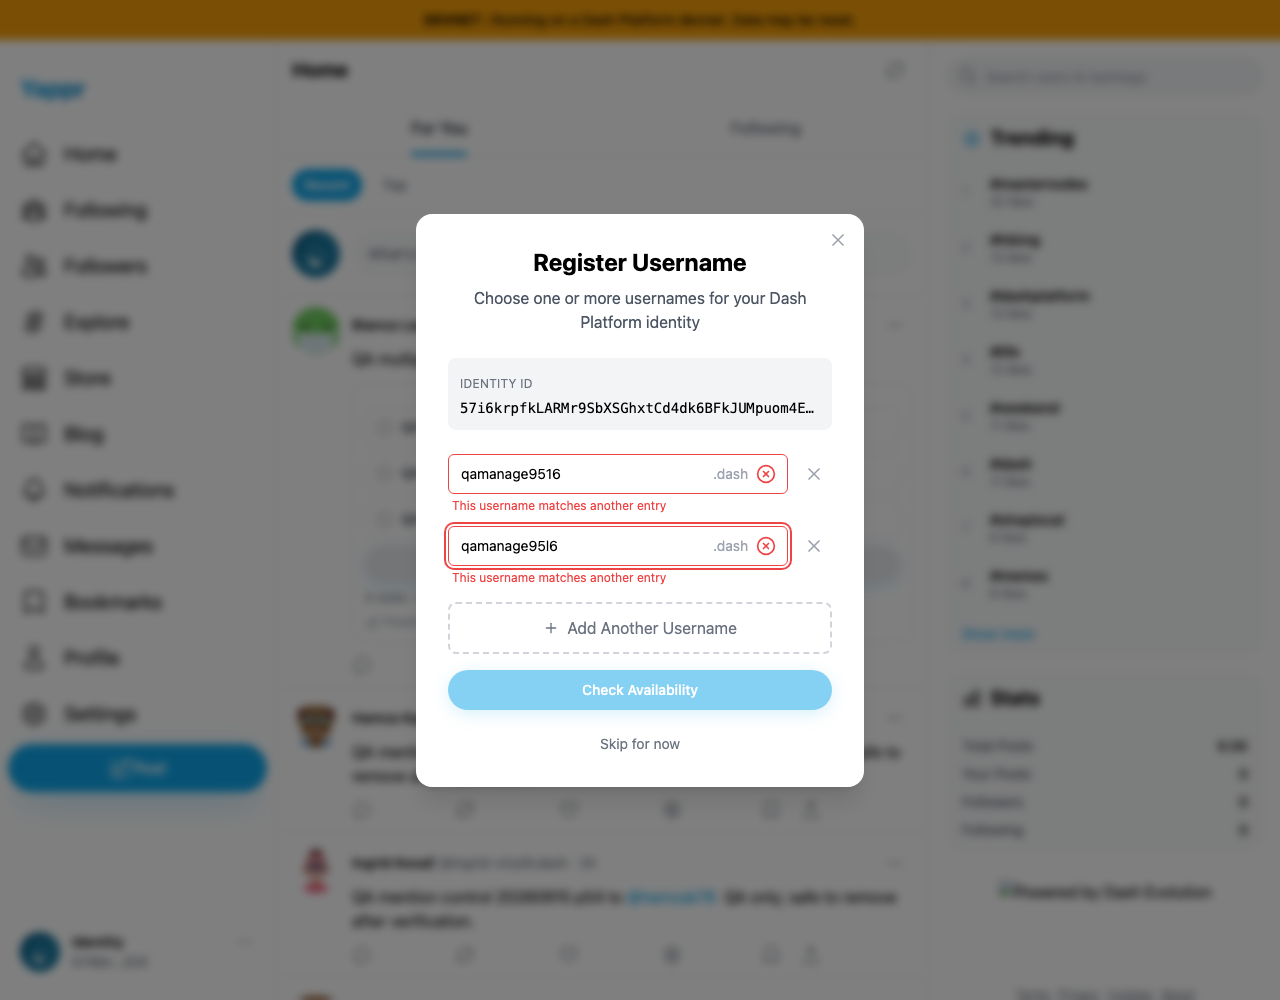
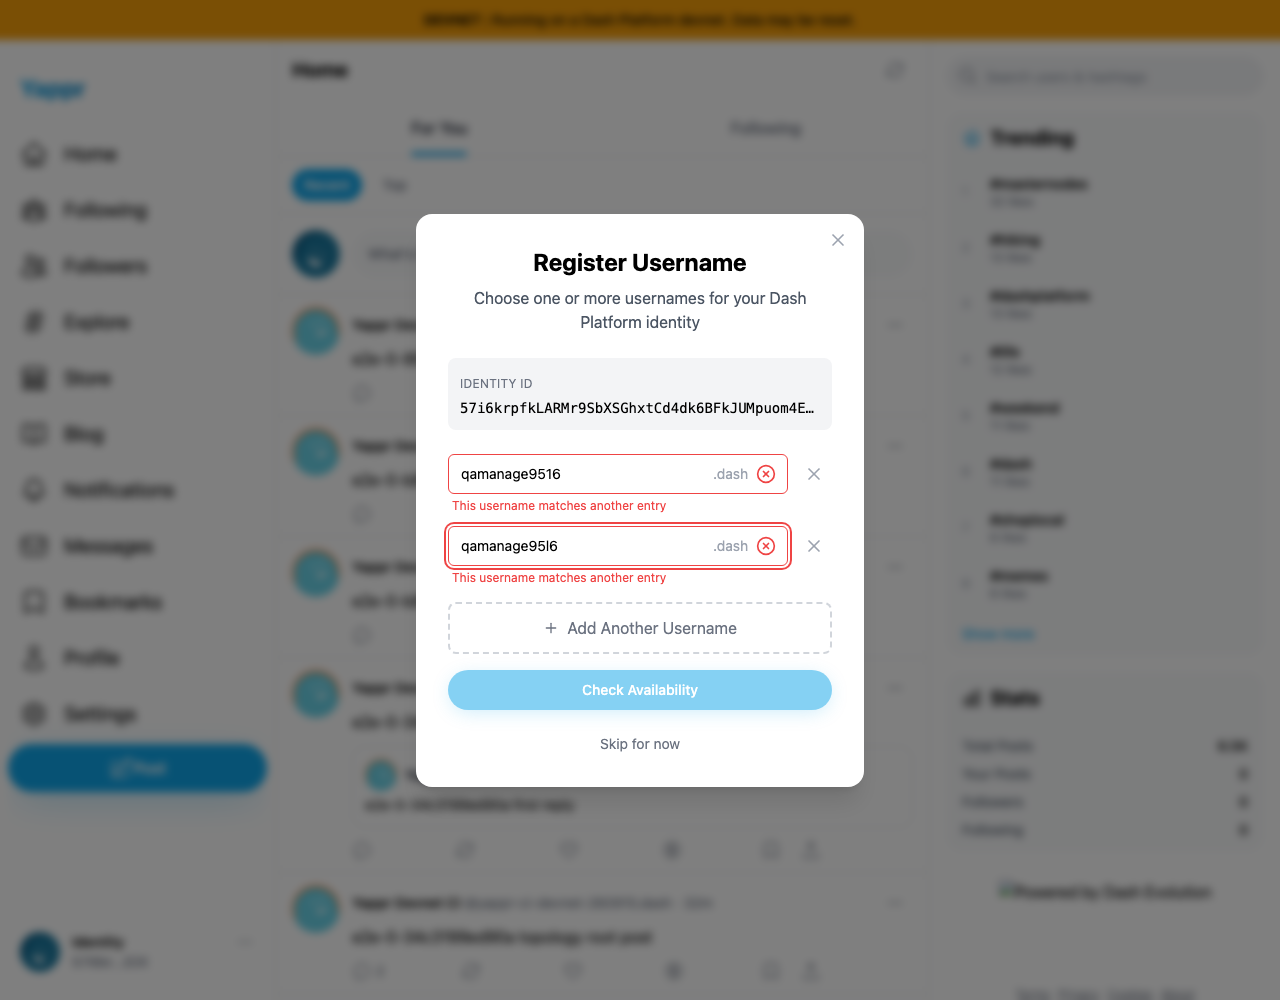
docs: refresh PR459 evidence against CI parent

diff --git a/yappr/pr-dpns-duplicate-usernames/README.md b/yappr/pr-dpns-duplicate-usernames/README.md
@@ -1,31 +1,26 @@
-# Duplicate DPNS usernames
+# Duplicate DPNS usernames — PR459
 
-Entering the same name twice, or names that share a DPNS canonical label, offered both as available registrations. The fix marks every duplicate row, disables availability until resolved, and immediately clears the warning when a row is changed or removed.
+Entering identical names or DPNS-equivalent spellings offered two registrations. The fix marks every matching row and blocks availability until the duplicate is edited or removed.
 
-Captured from separate exact-revision local devnet builds using the repository's unchanged Node static adapter and live devnet reads. Baseline `eb895be71a7207c73fb9329ac9d9bb7b398f53da`. Chromium, 1280 × 1000, matching unnamed identity and actual private-key login; no storage injection. No username registration or vote was sent. Screenshots are unmodified browser captures, reviewed at original resolution. An unrelated footer-logo omission is an adapter artifact, not a claimed product issue.
+This comparison supersedes the previous staging comparison after stacking PR459 on PR497. **Before exact parent497: `bcd859dcac2e5d089d61857d8585548614b21cd5`. After full head: `0d0358fc531511ddcdec78331f1be741a245e303`.** Both images were freshly captured from independent exact-revision production devnet builds.
 
-Head `0b69d5eb80ba39f20d603910a881174311164add` (build ID `0b69d5eb`). Build, lint and independent source review passed. Browser checks covered uppercase normalization, identical duplicates, i/l/1 aliases, edit to distinct live-available names, removal, and empty/non-ASCII/invalid text without render errors.
+Same unnamed identity `57i6krpfkLARMr9SbXSGhxtCd4dk6BFkJUMpuom4EiiX`, actual key login, Chromium1280×1000, fresh contexts, matching Node static adapters and live reads. No storage injection or registration/vote submission. No traces retained. The adapter's unrelated footer-logo omission is not a product claim.
 
-Before: duplicate names offered as two registrations.
+| Before — exact parent497 | After — full head |
+| --- | --- |
+| ![Before duplicate names offered as available](before/duplicate-review.png) | ![After duplicate rows explained and blocked](after/duplicate-entry.png) |
+| ![Before equivalent spellings offered twice](before/alias-review.png) | ![After equivalent spellings marked](after/alias-entry.png) |
 
-![Before: duplicate available usernames](before/duplicate-review.png)
+Distinct names still pass the live availability check, and deleting the duplicate restores entry immediately.
 
-After: both duplicate rows explain the problem and Check Availability is disabled.
+![After distinct names available](after/distinct-review.png)
 
-![After: duplicate names blocked](after/duplicate-entry.png)
+![After removing duplicate](after/duplicate-removed.png)
 
-DPNS-equivalent spellings are also blocked.
+All seven final PNGs were inspected at original resolution. Safe run details are in `before/result.json` and `after/result.json`.
 
-![After: alias duplicates blocked](after/alias-entry.png)
+## Regression and restack validation
 
-Editing to distinct names restores the normal review.
+All four checked-in Playwright registration-entry cases pass on the rebuilt full head (5.8s): identical, case-equivalent, i/l/1 and o/0 groups, every matching row, edit/removal recovery, and empty input. Tests edit the real form with the dedicated CI fixture; they never check availability or register names. Capture separately verifies live availability recovery and invalid text without page errors. Full lint, E2E TypeScript and devnet build pass.
 
-![After: distinct names available](after/distinct-review.png)
-
-Structured run results are in `before/result.json` and `after/result.json`. Additional exact-state screenshots are retained alongside them.
-
-## Persistent regression coverage
-
-The final head adds four authenticated Playwright registration-entry tests and includes them in the devnet CI job. Tests use ordinary Settings → Register More Usernames UI and the real SDK normalizer, but never check availability or submit registration. Identical, case-equivalent, i/l/1-equivalent, and o/0-equivalent groups mark every matching row and block availability. Editing all conflicting rows or removing one duplicate clears the original row's error; empty rows are ignored, and an entirely empty form remains disabled.
-
-The identical-name test was run on exact pre-fix baseline eb895be7 and failed at the expected missing duplicate-error assertion. All four pass on the fixed application. The existing devnet CI job remains nonblocking and requires the dedicated E2E seed; this change does not alter those policy settings. These test-only/CI additions do not change application behavior. The after images have nevertheless been recaptured from the independently built full final head.
+Range-diff preserves three commits: first two identical; the CI commit changes only to retain parent497's `--trace=off`. The combined command runs `topology dpns-username-entry`; dedicated devnet secret mapping/public pool are preserved, testnet mapping unchanged. Topology results are owned by the central serialized CI monitor and are not claimed by this four-test run. The historical exact pre-fix baseline regression failed at the expected missing duplicate-warning assertion.

diff --git a/yappr/pr-dpns-duplicate-usernames/EVIDENCE_MATRIX.md b/yappr/pr-dpns-duplicate-usernames/EVIDENCE_MATRIX.md
@@ -1,0 +1,10 @@
+# PR459 restack evidence
+
+Before exact parent497: bcd859dcac2e5d089d61857d8585548614b21cd5. After full head: 0d0358fc531511ddcdec78331f1be741a245e303.
+
+| Surface | Before | After | Shared fixture | Delta |
+| --- | --- | --- | --- | --- |
+| Identical/DPNS-equivalent entry | Offers availability/registration twice | Both rows marked; check disabled | Unnamed identity, real login, qamanage9516/alias | Prevent duplicate attempt |
+| Edit/removal recovery | Existing normal behavior | Distinct names available; removal restores check | Same browser1280×1000/live reads | Compatibility |
+
+Independent exact builds, fresh contexts, normal login, static adapter, no registration/votes, no traces.
